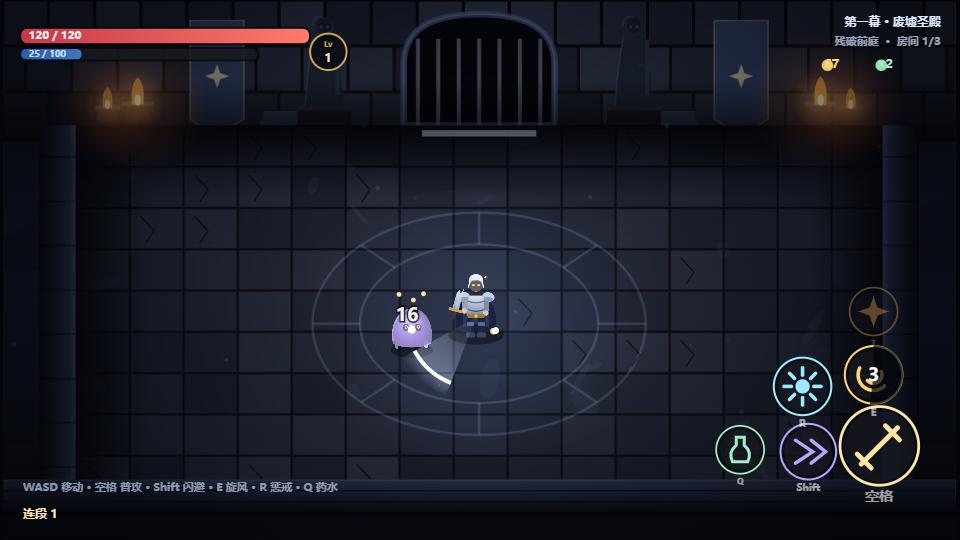
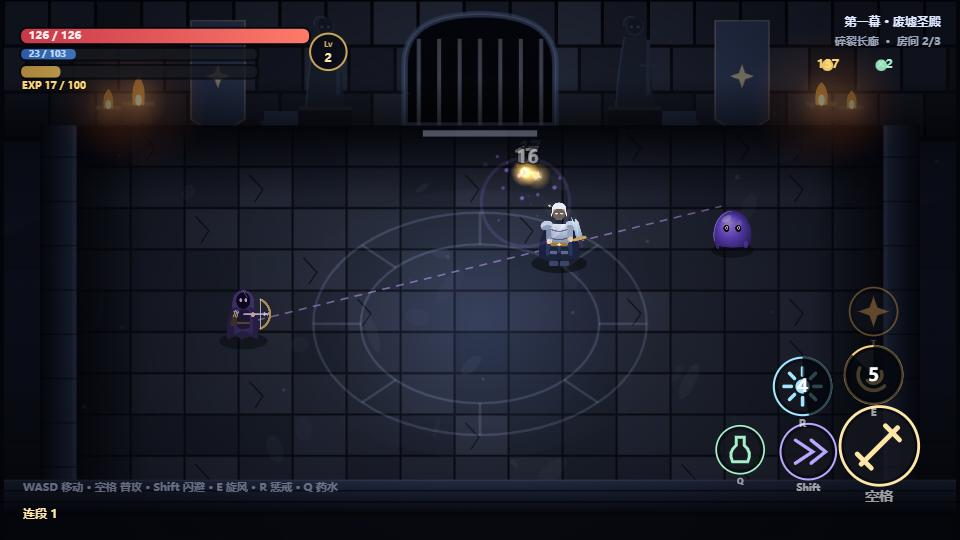
Publish 星辉幻境

diff --git a/starfall-realm/index.html b/starfall-realm/index.html
@@ -126,6 +126,7 @@
     talentLine: null, talentLevel: 0, talentPoints: 0,
     runes: {}, affixes: [], relics: [], startAffix: null,
     equipped: { weapon: null, armor: null, relic: null }, bag: [],
+    expKills: 0,
   };
 
   var stats = {};
@@ -410,6 +411,13 @@
    * ============================================================ */
   var MOVE_KEYS = ['arrowup', 'arrowdown', 'arrowleft', 'arrowright', 'w', 'a', 's', 'd'];
 
+  // 奖励 / 岔路面板刚弹出的 400ms 内忽略确认输入：
+  // 战斗中连按空格普攻，升级瞬间 mode 切到 reward，下一次空格不该把卡片选掉。
+  var panelGuardUntil = 0;
+  function panelGuarded() {
+    return (mode === 'reward' || mode === 'path') && performance.now() < panelGuardUntil;
+  }
+
   document.addEventListener('keydown', function (e) {
     ensureAudio();
     var k = (e.key || '').toLowerCase();
@@ -417,6 +425,7 @@
 
     if (k === 'm') { muted = !muted; toastMsg(muted ? '静音' : '音效开启'); return; }
     if (e.repeat) return;
+    if (panelGuarded()) return;
 
     if (mode === 'title') {
       if (k === 'c' && hasSave()) continueRun();
@@ -438,14 +447,14 @@
     if (mode === 'dead') { if (k === 'enter' || k === ' ' || k === 'f') retryAct(); return; }
     if (mode === 'reward') {
       if (k === '1' || k === '2' || k === '3') pickCard(parseInt(k, 10) - 1);
-      if (k === 'f' || k === 'enter' || k === ' ') pickCard(cardIndex >= 0 ? cardIndex : 0);
+      if (k === 'f' || k === 'enter') pickCard(cardIndex >= 0 ? cardIndex : 0);
       if (k === 'arrowleft' || k === 'a') { cardIndex = (cardIndex + cards.length - 1) % cards.length; sfx.click(); }
       if (k === 'arrowright' || k === 'd') { cardIndex = (cardIndex + 1) % cards.length; sfx.click(); }
       return;
     }
     if (mode === 'path') {
       if (k === '1' || k === '2' || k === '3') choosePath(parseInt(k, 10) - 1);
-      if (k === 'f' || k === 'enter' || k === ' ') choosePath(pathIndex);
+      if (k === 'f' || k === 'enter') choosePath(pathIndex);
       if (k === 'arrowleft' || k === 'a') { pathIndex = (pathIndex + pathOptions.length - 1) % pathOptions.length; sfx.click(); }
       if (k === 'arrowright' || k === 'd') { pathIndex = (pathIndex + 1) % pathOptions.length; sfx.click(); }
       return;
@@ -510,12 +519,14 @@
     if (mode === 'story') { if (anyEdge) advanceStory(); return; }
     if (mode === 'dead') { if (anyEdge) retryAct(); return; }
     if (mode === 'path') {
+      if (panelGuarded()) return;
       if (edge(14)) { pathIndex = (pathIndex + pathOptions.length - 1) % pathOptions.length; sfx.click(); }
       if (edge(15)) { pathIndex = (pathIndex + 1) % pathOptions.length; sfx.click(); }
       if (anyEdge) choosePath(pathIndex);
       return;
     }
     if (mode === 'reward') {
+      if (panelGuarded()) return;
       if (edge(14)) { cardIndex = (cardIndex + cards.length - 1) % cards.length; sfx.click(); }
       if (edge(15)) { cardIndex = (cardIndex + 1) % cards.length; sfx.click(); }
       if (anyEdge) pickCard(cardIndex);
@@ -1344,7 +1355,7 @@
       talentLine: null, talentLevel: 0, talentPoints: Math.max(0, lvl - 1),
       runes: {}, affixes: [], relics: [], startAffix: null,
       equipped: { weapon: null, armor: null, relic: null }, bag: [],
-      node: null, visited: {},
+      node: null, visited: {}, expKills: 0,
     };
     if (run.ng > 0) run.startAffix = pickEndingAffix(run.ng);
     hero = {
@@ -1435,6 +1446,8 @@
       switches: (def.switches || []).map(function (s) { return { x: s[0], y: s[1], on: false, glow: 0 }; }),
       fightTime: 0
     };
+    room.expTotal = roomExpTarget(room);
+    run.expKills = 0;
     enemies.length = 0; projectiles.length = 0; hazards.length = 0;
     effects.length = 0; floaters.length = 0; drops.length = 0;
     hero.x = W / 2; hero.y = ARENA.y1 - 76;
@@ -1472,6 +1485,8 @@
       backPortal: node.backPortalTo ? { x: W / 2, y: 320, to: node.backPortalTo } : null,
       fightTime: 0
     };
+    room.expTotal = roomExpTarget(room);
+    run.expKills = 0;
     enemies.length = 0; projectiles.length = 0; hazards.length = 0;
     effects.length = 0; floaters.length = 0; drops.length = 0;
     hero.x = W / 2; hero.y = ARENA.y1 - 76;
@@ -1534,6 +1549,16 @@
     var out = [];
     for (var i = 0; i < enemies.length; i++) if (!enemies[i].dead && enemies[i].state !== 'spawn') out.push(enemies[i]);
     return out;
+  }
+
+  function roomExpTarget(r) {
+    if (!r || !r.def || !r.def.waves) return 0;
+    var n = 0;
+    for (var w = 0; w < r.def.waves.length; w++) {
+      n += r.def.waves[w].length;
+      if (run.event && run.event.id === 'rift' && r.type !== 'boss') n += 1;
+    }
+    return n;
   }
 
   function roomCleared() {
@@ -1705,6 +1730,7 @@
     cardIndex = 0;
     mode = 'reward';
     paused = false;
+    panelGuardUntil = performance.now() + 400;
   }
 
   function rollCards() {
@@ -1762,6 +1788,7 @@
     pathOptions = ids.slice();
     pathIndex = 0;
     mode = 'path';
+    panelGuardUntil = performance.now() + 400;
     sfx.click();
   }
 
@@ -2195,6 +2222,7 @@
     if (e.dead) return;
     e.dead = true;
     run.kills++;
+    if (room && room.expTotal > 0 && run.expKills < room.expTotal) run.expKills++;
     score += 10;
     if (stats.killHeal) healHero(stats.killHeal, true);
     var n = e.kind === 'boss' ? 14 : (e.kind === 'elite' || e.kind === 'warden' ? 6 : 3);
@@ -4440,6 +4468,13 @@
     ctx.textBaseline = 'middle';
     txt(Math.max(0, Math.ceil(hero.hp)) + ' / ' + Math.round(stats.maxHp), bx + 8 * s, by + 12 * s + bh / 2 + 0.5, 11 * s, 'rgba(255,255,255,0.92)');
     txt(Math.floor(hero.mp) + ' / ' + Math.round(stats.maxMp), bx + 8 * s, by + 12 * s + bh + 6 * s + bh * 0.36, 9.5 * s, 'rgba(220,240,255,0.85)');
+    // 经验：本关击杀进度，满格即升级（升级节奏仍是清场升一级）
+    var exW = bw * 0.82, exH = bh * 0.8;
+    var exY = by + 12 * s + bh + 6 * s + bh * 0.72 + 7 * s;
+    var expRatio = (room && room.expTotal > 0) ? clamp(run.expKills / room.expTotal, 0, 1) : 0;
+    var expPct = Math.round(expRatio * 100);
+    bar(bx, exY, exW, exH, expRatio, '#a8843c', '#ffe08a');
+    txt('EXP ' + expPct + ' / 100', bx + 1 * s, exY + exH + 9 * s, 10 * s, '#ffd874');
     // 等级
     ctx.save();
     ctx.translate(bx + bw + 20 * s, by + 12 * s + bh * 1.6);
@@ -4750,7 +4785,7 @@
       txt(String(i + 1), x + cw / 2, y0 + ch - 23 * s, 12 * s, '#0a0c14', 'center');
       uiRects.push({ id: 'path' + i, x: x, y: y0, w: cw, h: ch });
     }
-    txt('点击 / 按 1 2 选择', c.w / 2, y0 + ch + 36 * s, 11.5 * s, 'rgba(190,200,225,0.6)', 'center');
+    txt('点击 / 按 1 2 选择 · F / Enter 确认', c.w / 2, y0 + ch + 36 * s, 11.5 * s, 'rgba(190,200,225,0.6)', 'center');
   }
 
   function drawReward() {
@@ -4795,7 +4830,7 @@
       txt(String(i + 1), x + cw / 2, y0 + ch - 25 * s, 12 * s, '#0a0c14', 'center');
       uiRects.push({ id: 'card' + i, x: x, y: y0, w: cw, h: ch });
     }
-    txt('点击卡牌 / 按 1 2 3 选择', c.w / 2, y0 + ch + 40 * s, 11.5 * s, 'rgba(190,200,225,0.6)', 'center');
+    txt('点击卡牌 / 按 1 2 3 选择 · F / Enter 确认', c.w / 2, y0 + ch + 40 * s, 11.5 * s, 'rgba(190,200,225,0.6)', 'center');
   }
 
   /* 装备面板：三槽位 + 待选列表 */
@@ -5060,6 +5095,7 @@
 
   function handleOverlayClick(x, y) {
     var i, r;
+    if (panelGuarded()) return;
     for (i = 0; i < uiRects.length; i++) {
       r = uiRects[i];
       if (x >= r.x && x <= r.x + r.w && y >= r.y && y <= r.y + r.h) {
@@ -5222,6 +5258,8 @@
         relic: run.equipped.relic ? run.equipped.relic.name : null
       },
       bag: run.bag.length,
+      exp: (room && room.expTotal > 0) ? Math.round(100 * Math.min(1, run.expKills / room.expTotal)) : 0,
+      expKills: run.expKills,
       bossHp: (function () {
         for (var k = 0; k < enemies.length; k++) if (enemies[k].kind === 'boss' && !enemies[k].dead) return r2(enemies[k].hp);
         return 0;

diff --git a/index.html b/index.html
@@ -16,6 +16,6 @@ h1{margin:0 0 6px;font-size:24px}p.sub{margin:0 0 24px;color:var(--muted)}
 </style></head><body><main>
 <h1>DSH 游戏工坊 · 已发布游戏</h1><p class="sub">用 DSH 游戏工坊制作并发布的网页小游戏，点开即可游玩。</p>
 <div class="list">
-<a class="card" href="./starfall-realm/"><strong>星辉幻境</strong><span>2026-11-26</span></a>
+<a class="card" href="./starfall-realm/"><strong>星辉幻境</strong><span>2026-11-27</span></a>
 </div>
 </main></body></html>
